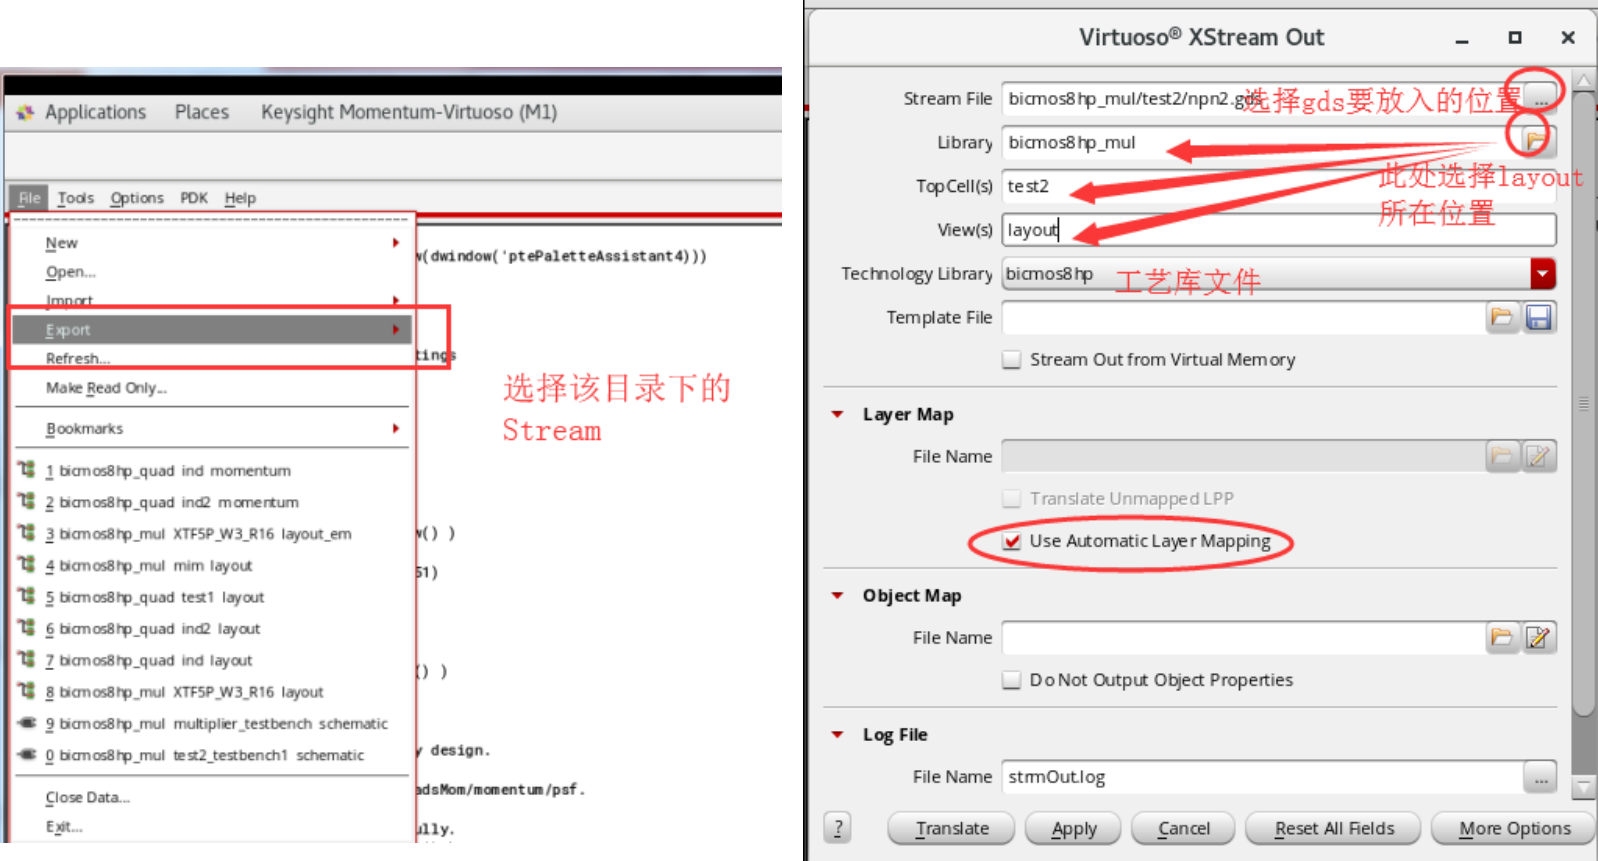
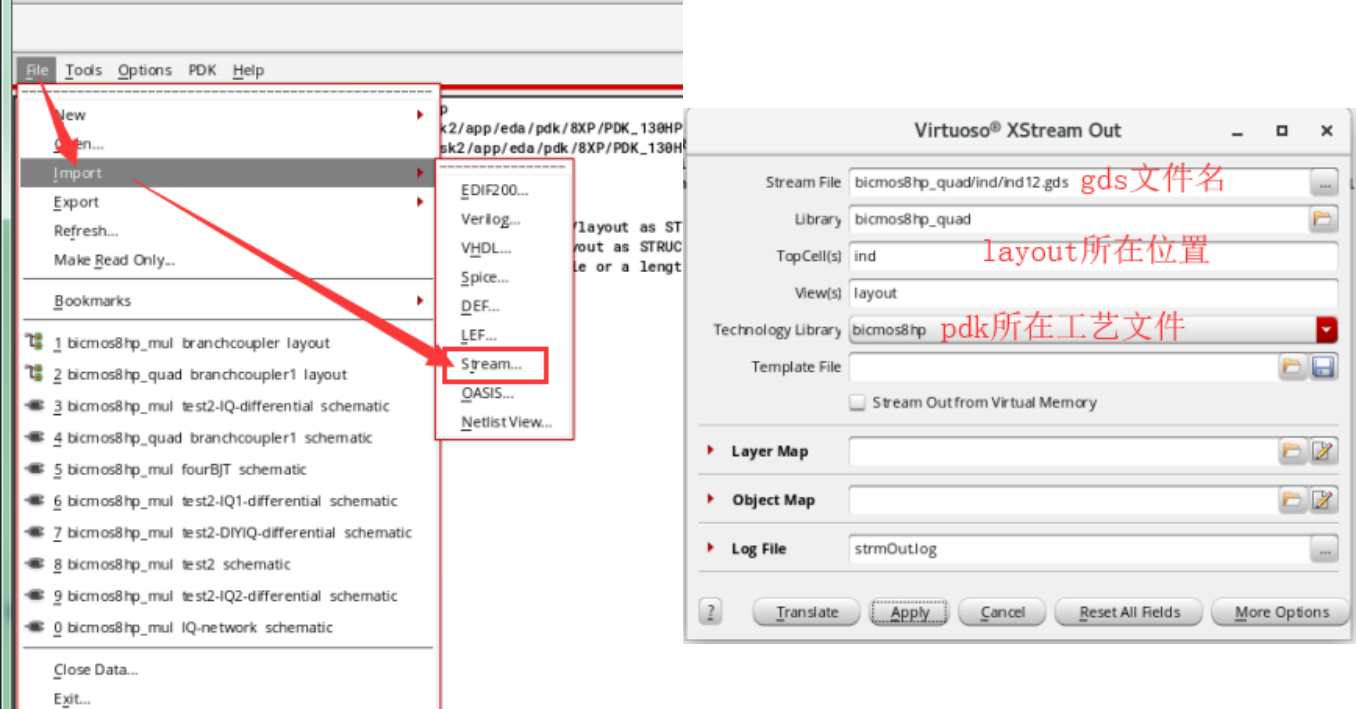
HFSS-bug

diff --git a/inductorHFSS/virtuoso_hfss.md b/inductorHFSS/virtuoso_hfss.md
@@ -1,22 +1,32 @@
 # Virtuoso&HFSS
 ## 1. export .gds from layout in Cadence
-.gds后缀的电路文件可以在HFSS中结合.tech的工艺文件实现无源电路的仿真，下图是导出步骤：直接在cadence的主界面点到“streamout”,这里要注意选择layer map里的“use automatic layer mapping”，在导入HFSS中才会出现正常的层结构（经验之谈）。
+.gds后缀的电路文件可以在HFSS中结合.tech的工艺文件实现无源电路的仿真，下图是导出步骤：直接在cadence的主界面点到“streamout”,弹出右边窗口，自己定义gds文件放置位置和文件名；选择cadence里你要导成gds文件的layout文件；以及我们用的工艺文件。
 
 ![](Streamout.png)
 
 ## 2. import .gds to HFSS
-打开hfss，建议不在服务器里的hfss中进行画图和设置操作，流畅度受限。按如下图导入.gds文件和.tech的文件。
+打开hfss，建议不在服务器里的hfss中进行画图和设置操作，流畅度受限。按如下图导入.gds文件和.tech的文件。这里的tech文件是能否成功导入的关键，要注意单位问题。我们用到的tech文件厚度要统一乘以1000。注意的是，导入gds有两个格式选择：Script和Acis。前者可以实现对模型进行编辑。按需选择。
 
 ![](HFSSimport.png)
 
 ![](import.png)
 
 ## 3. simulation in hfss
+### 建模
 要注意的是，为了保证导入的电路在坐标原点，在cadence里创建的layout也要在中心。
-导入后，先设置材料属性，我们用到铜和铝两种材质的金属，右下角的层结构和材料图也可以帮助理解。
+导入后，先设置材料属性，邮件Assign Material;在Search的地方键入 "Cond"，能找到对应的材料，右下角的层结构和材料图也可以帮助理解。
 
 ![](material.png)
 
-接下来就是HFSS的常规仿真，按如下方式设置端口后，添加扫频范围，开始仿真。下图是简单的电感示例。
+### BUG排除
+接下来就是HFSS的常规仿真，按如下方式设置端口后，添加扫频范围，开始仿真。但是我们很有可能遇到仿真划分网格出错等的bug，下面总结了两个可能原因。
 
-![](model.png)
+#### 第一种 导入的gds文件有问题
+如下图所示，导入的gds里，电感就分成了很多个小模块，在HFSS中肯定要Unit合并才能仿真，但是可能因为模块太多，HFSS划分网格困难。所以导入的时候，尽量简化结构的模块。
+
+![](reasonoferror.png)
+
+#### 第二种 空气盒子和衬底尺寸不合适
+
+如下图所示，我在用左图仿真时会出现问题，但是修改到右图的结构后可以完成仿真。所以合适的空气盒子以及整体结构尺寸比例可能也会造成仿真出错。
+![](model1.png)
